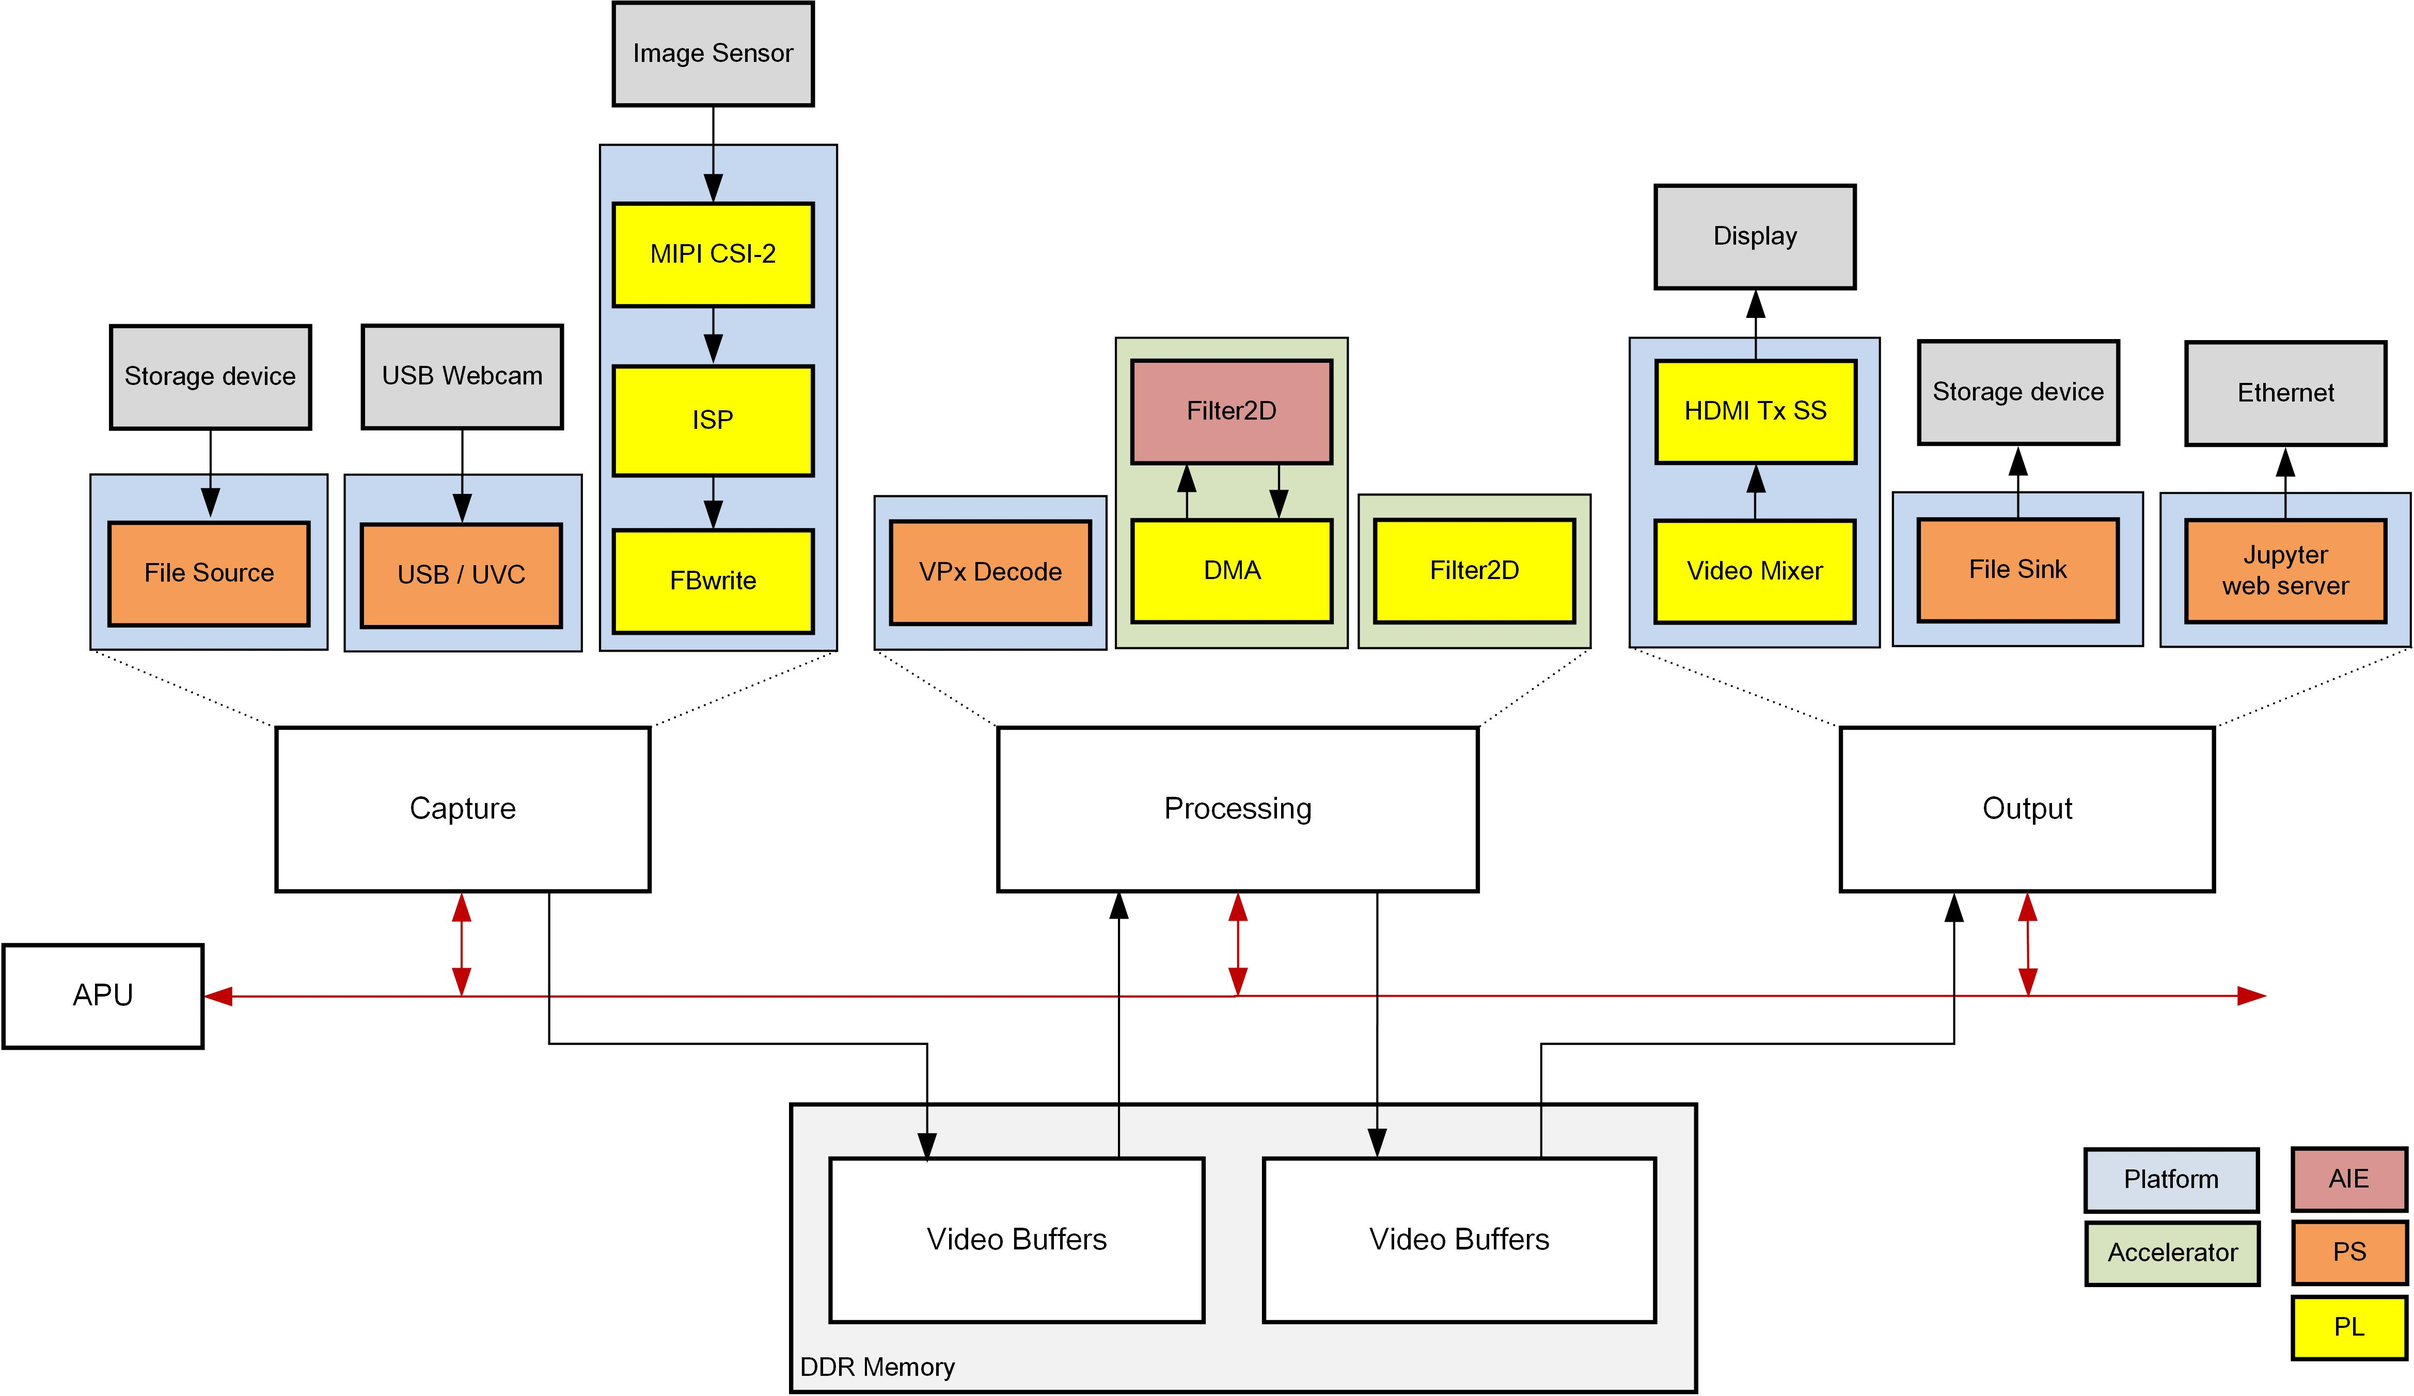
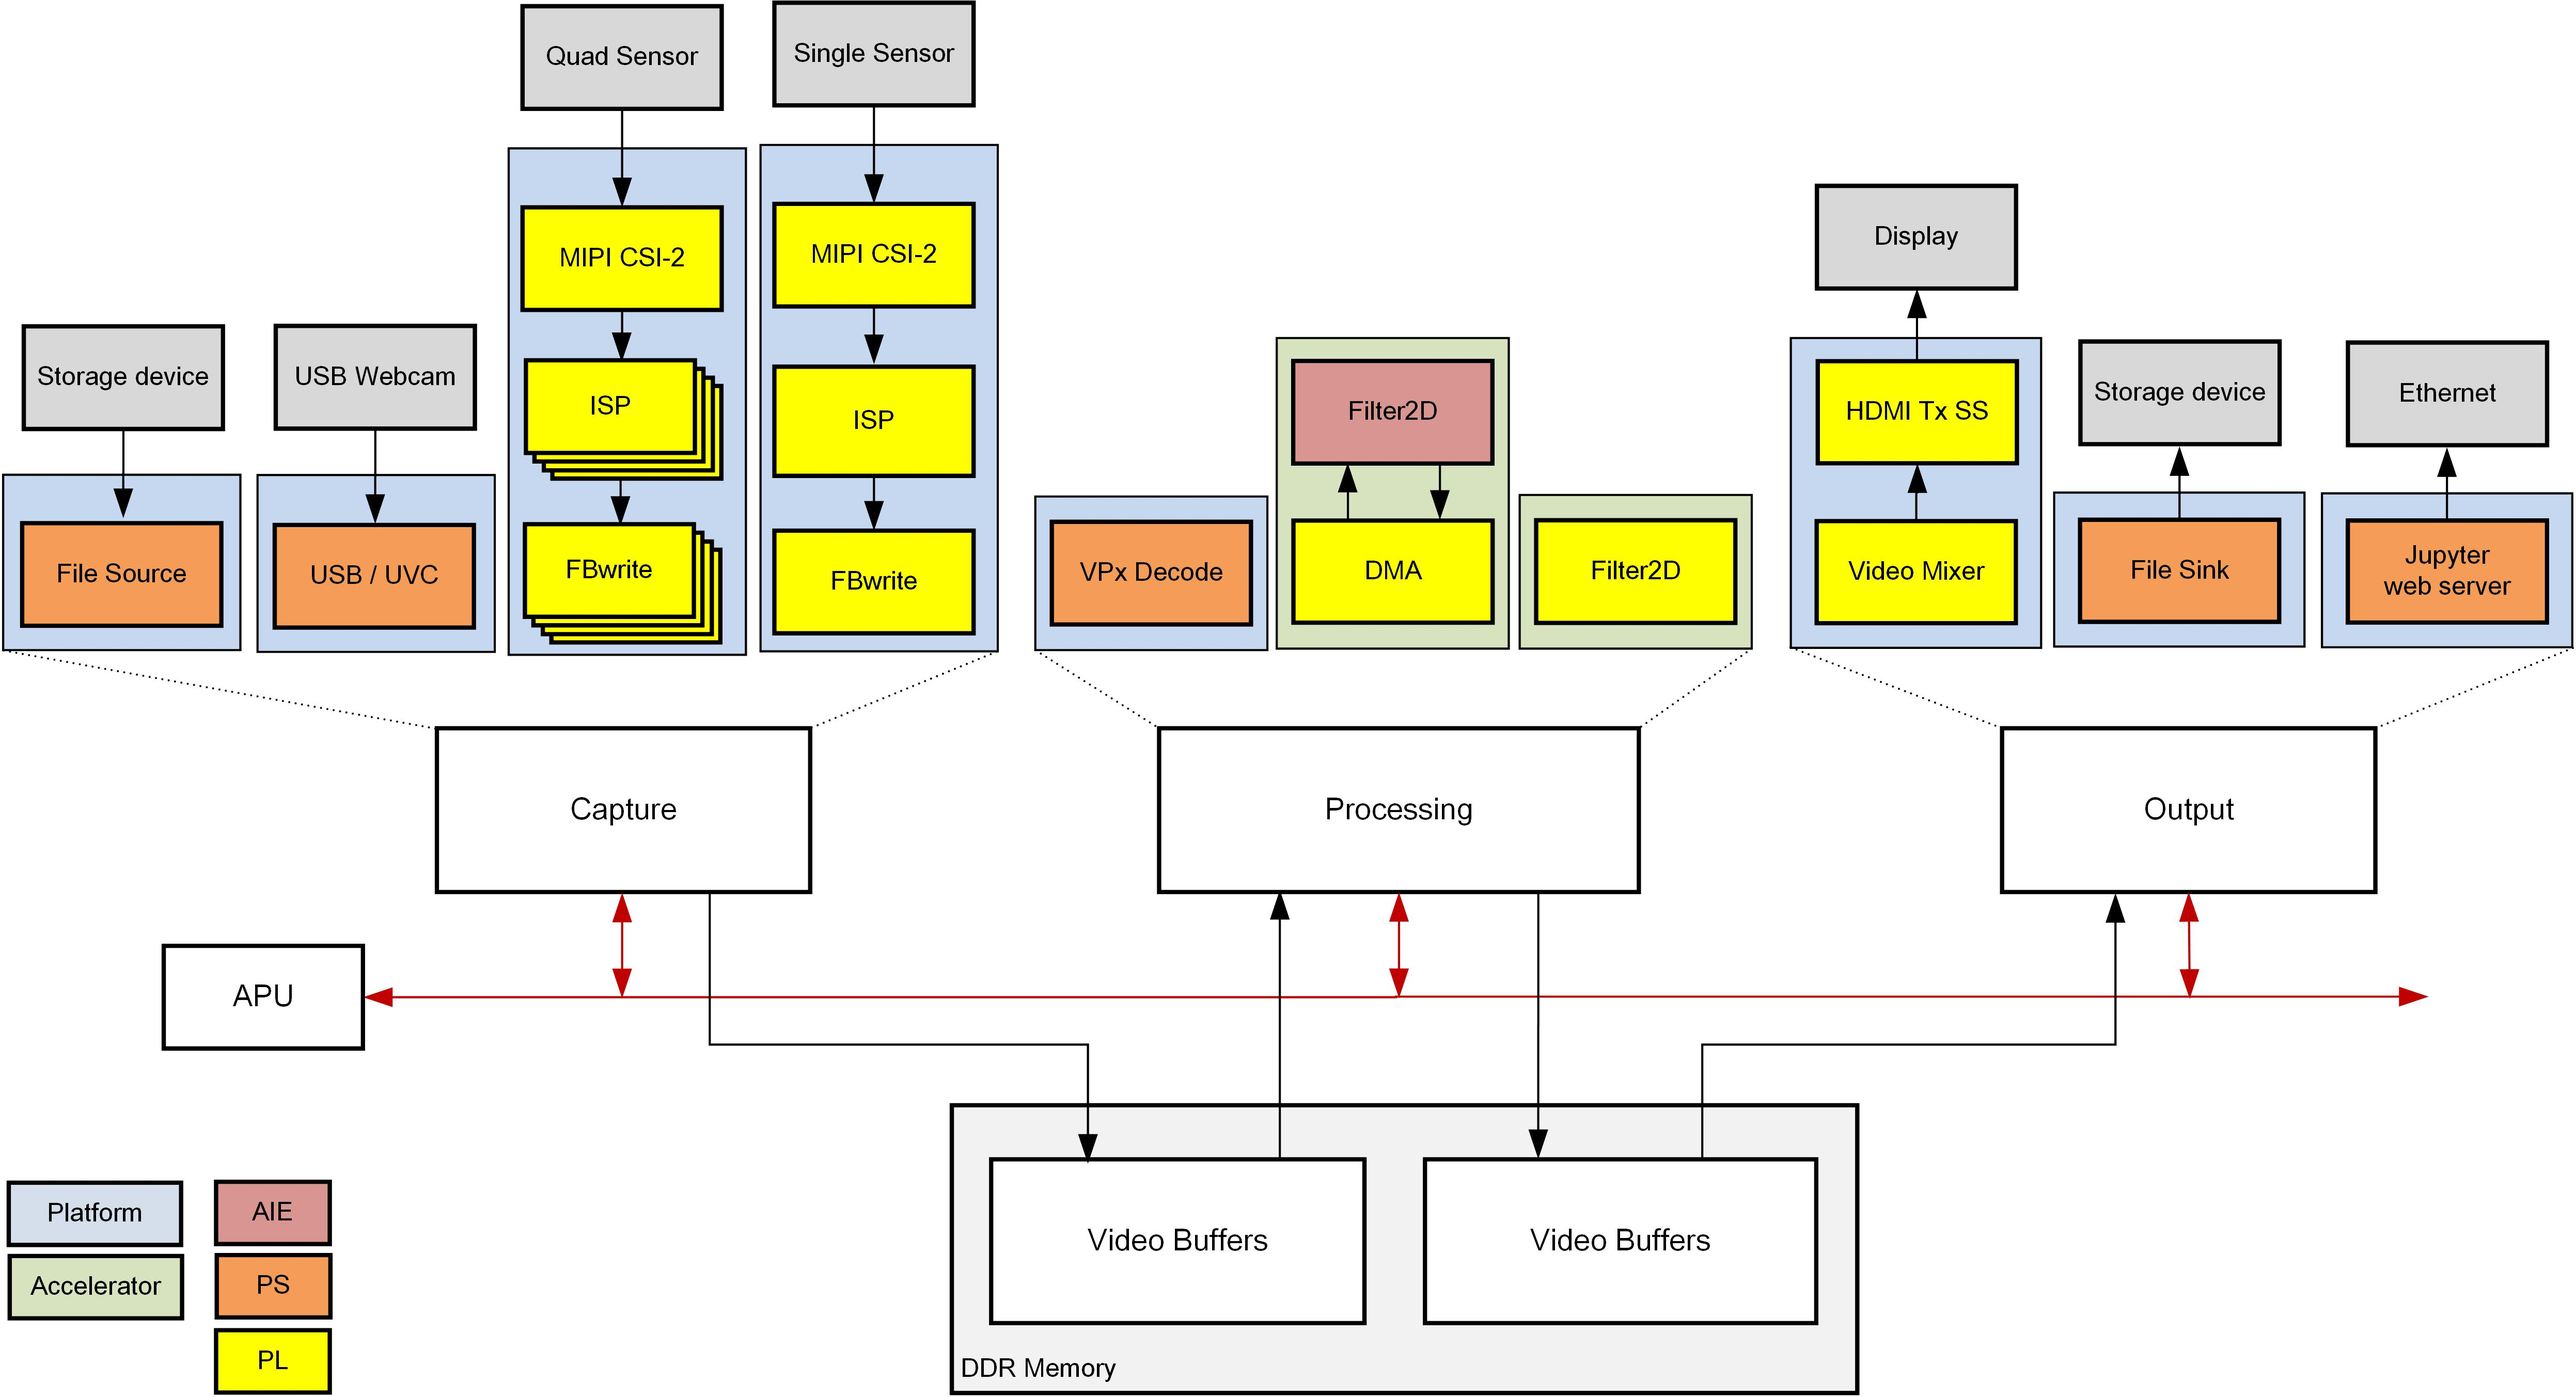
docs: Update introduction chapter for 2020.1
Update SW stack and block diagram figures. Update verbage for sources/license
tar ball. Update directory hierarchy.

diff --git a/project-spec/meta-base-trd/recipes-apps/base-trd/base-trd/docs/source/intro.rst b/project-spec/meta-base-trd/recipes-apps/base-trd/base-trd/docs/source/intro.rst
@@ -41,8 +41,8 @@ The following is a list of supported platforms including key I/O interfaces:
 
 * Platform 2:
 
-  Platform 2 is essentially an enhancement to platform 1 capture pipeline, 
-  while the rest of the hardware design and pre-instantiated set of I/O 
+  Platform 2 is essentially an enhancement to platform 1 capture pipeline,
+  while the rest of the hardware design and pre-instantiated set of I/O
   interfaces remain the same. The notable difference in the capture path is
   replacement of IMX274 image sensor with Avnet Multi-Camera image sensor.
 
@@ -72,8 +72,12 @@ The main software frameworks used in this reference design are:
 Design File Hierarchy
 ---------------------
 
-The reference design zip file can be downloaded from
-https://www.xilinx.com/member/forms/download/xef.html?filename=vck190_base_trd_platform1_2020.1_v0.4.zip
+The reference design zip files can be downloaded from the below locations. Note
+there is a separate zip file per platform:
+
+* Platform 1: https://www.xilinx.com/member/forms/download/xef.html?filename=vck190_base_trd_platform1_2020.1_v0.4.zip
+
+* Platform 2: https://www.xilinx.com/member/forms/download/xef.html?filename=vck190_base_trd_platform2_2020.1_v0.4.zip
 
 It has the following contents:
 
@@ -91,11 +95,10 @@ It has the following contents:
 
 * README file
 
-* Design sources zip file
+* Petalinux sources and licenses archive
 
-* Licenses zip file
-
-The design file hierarchy is shown below:
+The design file hierarchy is identical between the different platforms. For
+example, the hierarchy of platform 1 is shown below:
 
 .. code-block::
 
@@ -106,25 +109,32 @@ The design file hierarchy is shown below:
    │   │   ├── filter2d_combined
    │   │   └── filter2d_pl
    │   ├── LICENSE
-   │   └── vitis_libraries
+   │   └── vitis_libraries
    │       └── vision
+   ├── archiver.tar.gz
    ├── docs
    │   ├── doctrees
    │   ├── html
    │   └── index.html
-   ├── licenses.zip
    ├── petalinux
-   │   └── xilinx-vck190-qspi-base-trd-2020.1-v0.4.bsp
+   │   └── xilinx-vck190-es1-base-trd-platform1-2020.1.bsp
    ├── platform
    │   ├── pfm.tcl
    │   └── vck190_base_trd_platform1
    ├── README.txt
    ├── sdcard
-   │   └── sdcard.img.zip
-   ├── sources.zip
+   │   └── petalinux-sdimage.wic.gz
    └── vivado
        ├── scripts
+       ├── source
        └── xdc
+
+In the following tutorials, it is assumed that the design zip file is extracted
+into a directory referred to as ``$working_dir``, e.g.
+
+.. code-block:: bash
+
+   export working_dir=/path/to/extracted/zip/vck190_base_trd_platform1_2020.1_v0.4
 
 Licenses
 --------
@@ -132,9 +142,9 @@ Licenses
 The design includes files licensed by Xilinx and third parties under the terms
 of the GNU General Public License, GNU Lesser General Public License,
 BSD License, MIT License, and other licenses. The design directory includes one
-zip file named ``sources.zip`` containing the complete set of design source
-files and one zip file named ``licenses.zip`` containing licenses extracted from
-the design source files. You are solely responsible for checking any files you
-use for notices and licenses and for complying with any terms applicable to your
-use of the design and any third party files supplied with the design.
+tar ball named ``archiver.tar.gz`` containing the complete set of design source
+files and licenses extracted from the design source files. You are solely
+responsible for checking any files you use for notices and licenses and for
+complying with any terms applicable to your use of the design and any third
+party files supplied with the design.
 
